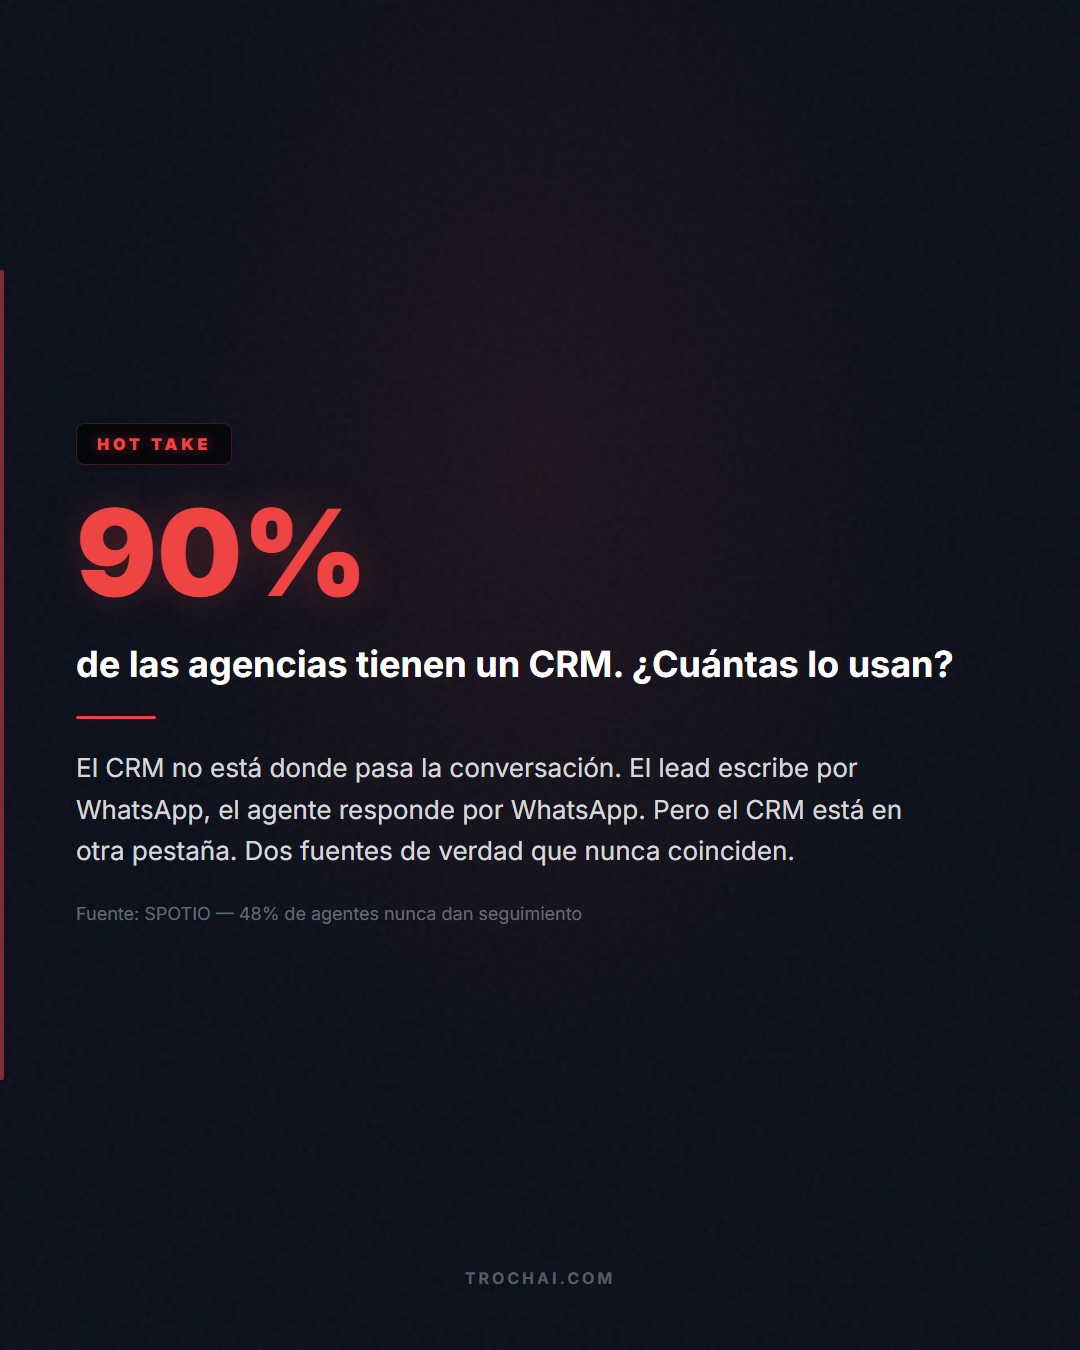
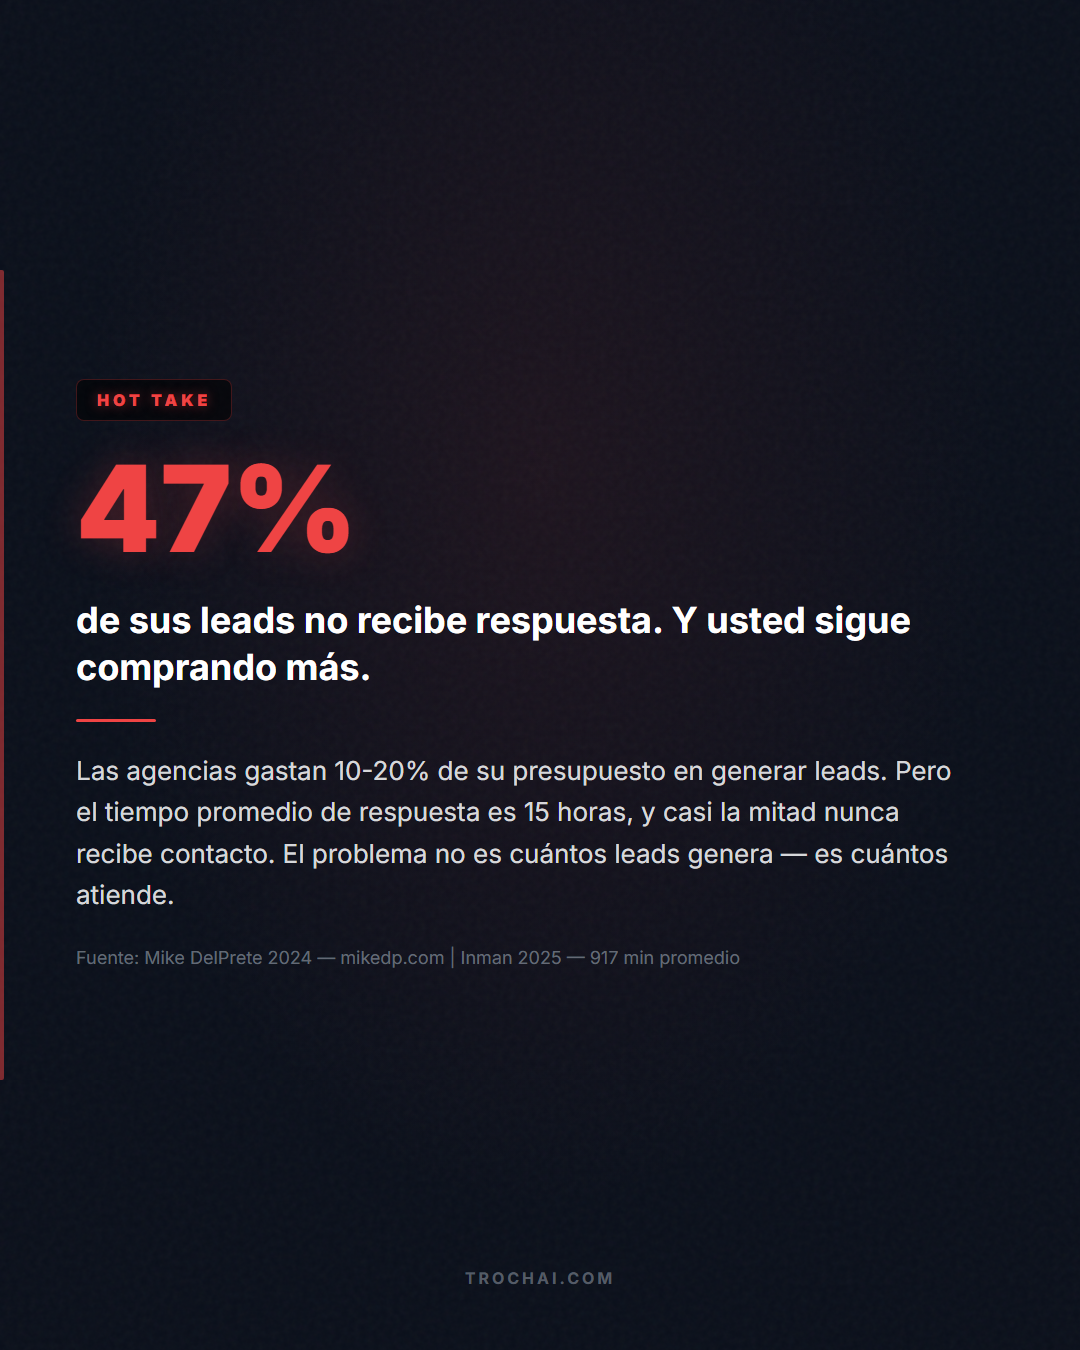
docs: rewrite Thursday W16 to "response problem" angle

Changed region(s): [[0.0611, 0.28, 0.8861, 0.7156], [0.55, 0.6844, 0.6722, 0.7156]]

diff --git a/content/week-of-2026-04-13/thursday-growth.md b/content/week-of-2026-04-13/thursday-growth.md
@@ -1,4 +1,4 @@
-# Jueves — Hot Take: Las agencias no necesitan un CRM
+# Jueves — Hot Take: Su agencia no tiene un problema de leads
 
 > Bucket: Growth | Formato: Infographic + text
 
@@ -6,40 +6,37 @@
 
 ## LinkedIn Post Caption
 
-Las agencias inmobiliarias no necesitan un CRM. Necesitan un inbox que funcione.
+Su agencia no tiene un problema de leads. Tiene un problema de respuesta.
 
-Sé que suena radical. Pero escúcheme.
+Las agencias inmobiliarias gastan entre el 10% y 20% de su presupuesto anual en marketing y generación de leads. Portales, redes sociales, pauta digital — todo para que un comprador interesado levante la mano.
 
-El 90% de las agencias que conozco en Costa Rica tienen un CRM. Lo compraron, lo configuraron, capacitaron al equipo.
+¿Y qué pasa cuando la levanta?
 
-¿Y sabe qué pasa 6 meses después?
+→ 47% de las consultas no recibe ninguna respuesta. Ni un "recibido."
+→ El tiempo promedio de respuesta es de 917 minutos. Más de 15 horas.
+→ Solo el 27% de los leads recibe algún tipo de contacto.
+→ 44% de los agentes abandonan después de un solo intento de seguimiento.
 
-→ Los agentes no lo actualizan
-→ La información está desactualizada
-→ Los leads se registran pero nadie da seguimiento
-→ El director revisa el dashboard una vez al mes
+Mientras tanto, la data dice:
 
-¿Por qué? Porque el CRM no está donde pasa la conversación. El lead escribe por WhatsApp. El agente responde por WhatsApp. Pero el CRM está en otra pestaña, otro sistema, otro mundo.
+→ Responder en 5 minutos = 21x más probabilidad de calificar el lead.
+→ Responder en 1 minuto = 391% más conversiones que esperar 2 minutos.
+→ 78% de los compradores compra con el primer agente que responde.
+→ Cada lead ignorado = ~$7,500 en comisión perdida.
 
-El resultado: dos fuentes de verdad que nunca coinciden.
+El problema no es cuántos leads genera. Es cuántos atiende.
 
-La solución no es otro CRM más sofisticado. Es que el canal de comunicación SEA el sistema de gestión.
+Su agencia probablemente no necesita más leads. Necesita responder los que ya tiene — más rápido, con más seguimiento, las 24 horas.
 
-Que cuando un lead escriba:
-→ La conversación se asigne automáticamente
-→ Se enriquezca con contexto (qué propiedades vio, qué preguntó)
-→ Se responda inmediatamente fuera de horario
-→ Se mida (tiempo de respuesta, resolución)
-
-El mejor CRM es el que su equipo ya usa todos los días. Y en Costa Rica, eso es WhatsApp.
-
-¿Controversial? Tal vez. ¿Incorrecto? Revise cuánto usa su equipo el CRM actual versus WhatsApp. Los datos hablan.
+Antes de subir el presupuesto de marketing, hágase una pregunta: ¿cuántos mensajes de WhatsApp del fin de semana pasado siguen sin respuesta?
 
 Fuentes:
-- 48% de agentes nunca dan seguimiento — SPOTIO (spotio.com)
-- 78% de compradores eligen al primer agente que responde — NAR 2025 (nar.realtor)
+- mikedp.com/articles/real-estate-agents-response-time — 47% de consultas sin respuesta
+- agentzap.ai/blog/real-estate-lead-statistics — 917 min promedio de respuesta (Inman 2025)
+- greetnow.com/blog/lead-response-time-statistics — 21x en 5 min (InsideSales/MIT), 391% en 1 min (Velocify)
+- nar.realtor/research/data/buyers — 78% compran con el primero que responde
 
-#CRM #WhatsApp #BienesRaíces #PropTech #CostaRica #HotTake #Trochai
+#BienesRaíces #WhatsApp #LeadManagement #CostaRica #PropTech #Trochai #HotTake
 
 ---
 
@@ -50,10 +47,10 @@ Fuentes:
 
 ```json
 {
-  "stat": "90%",
-  "statLine": "de las agencias tienen un CRM. ¿Cuántas lo usan?",
-  "insight": "El CRM no está donde pasa la conversación. El lead escribe por WhatsApp, el agente responde por WhatsApp. Pero el CRM está en otra pestaña. Dos fuentes de verdad que nunca coinciden.",
-  "source": "SPOTIO — 48% de agentes nunca dan seguimiento",
+  "stat": "47%",
+  "statLine": "de sus leads no recibe respuesta. Y usted sigue comprando más.",
+  "insight": "Las agencias gastan 10-20% de su presupuesto en generar leads. Pero el tiempo promedio de respuesta es 15 horas, y casi la mitad nunca recibe contacto. El problema no es cuántos leads genera — es cuántos atiende.",
+  "source": "Mike DelPrete 2024 — mikedp.com | Inman 2025 — 917 min promedio",
   "topicTag": "HOT TAKE",
   "accentColor": "#EF4444"
 }
